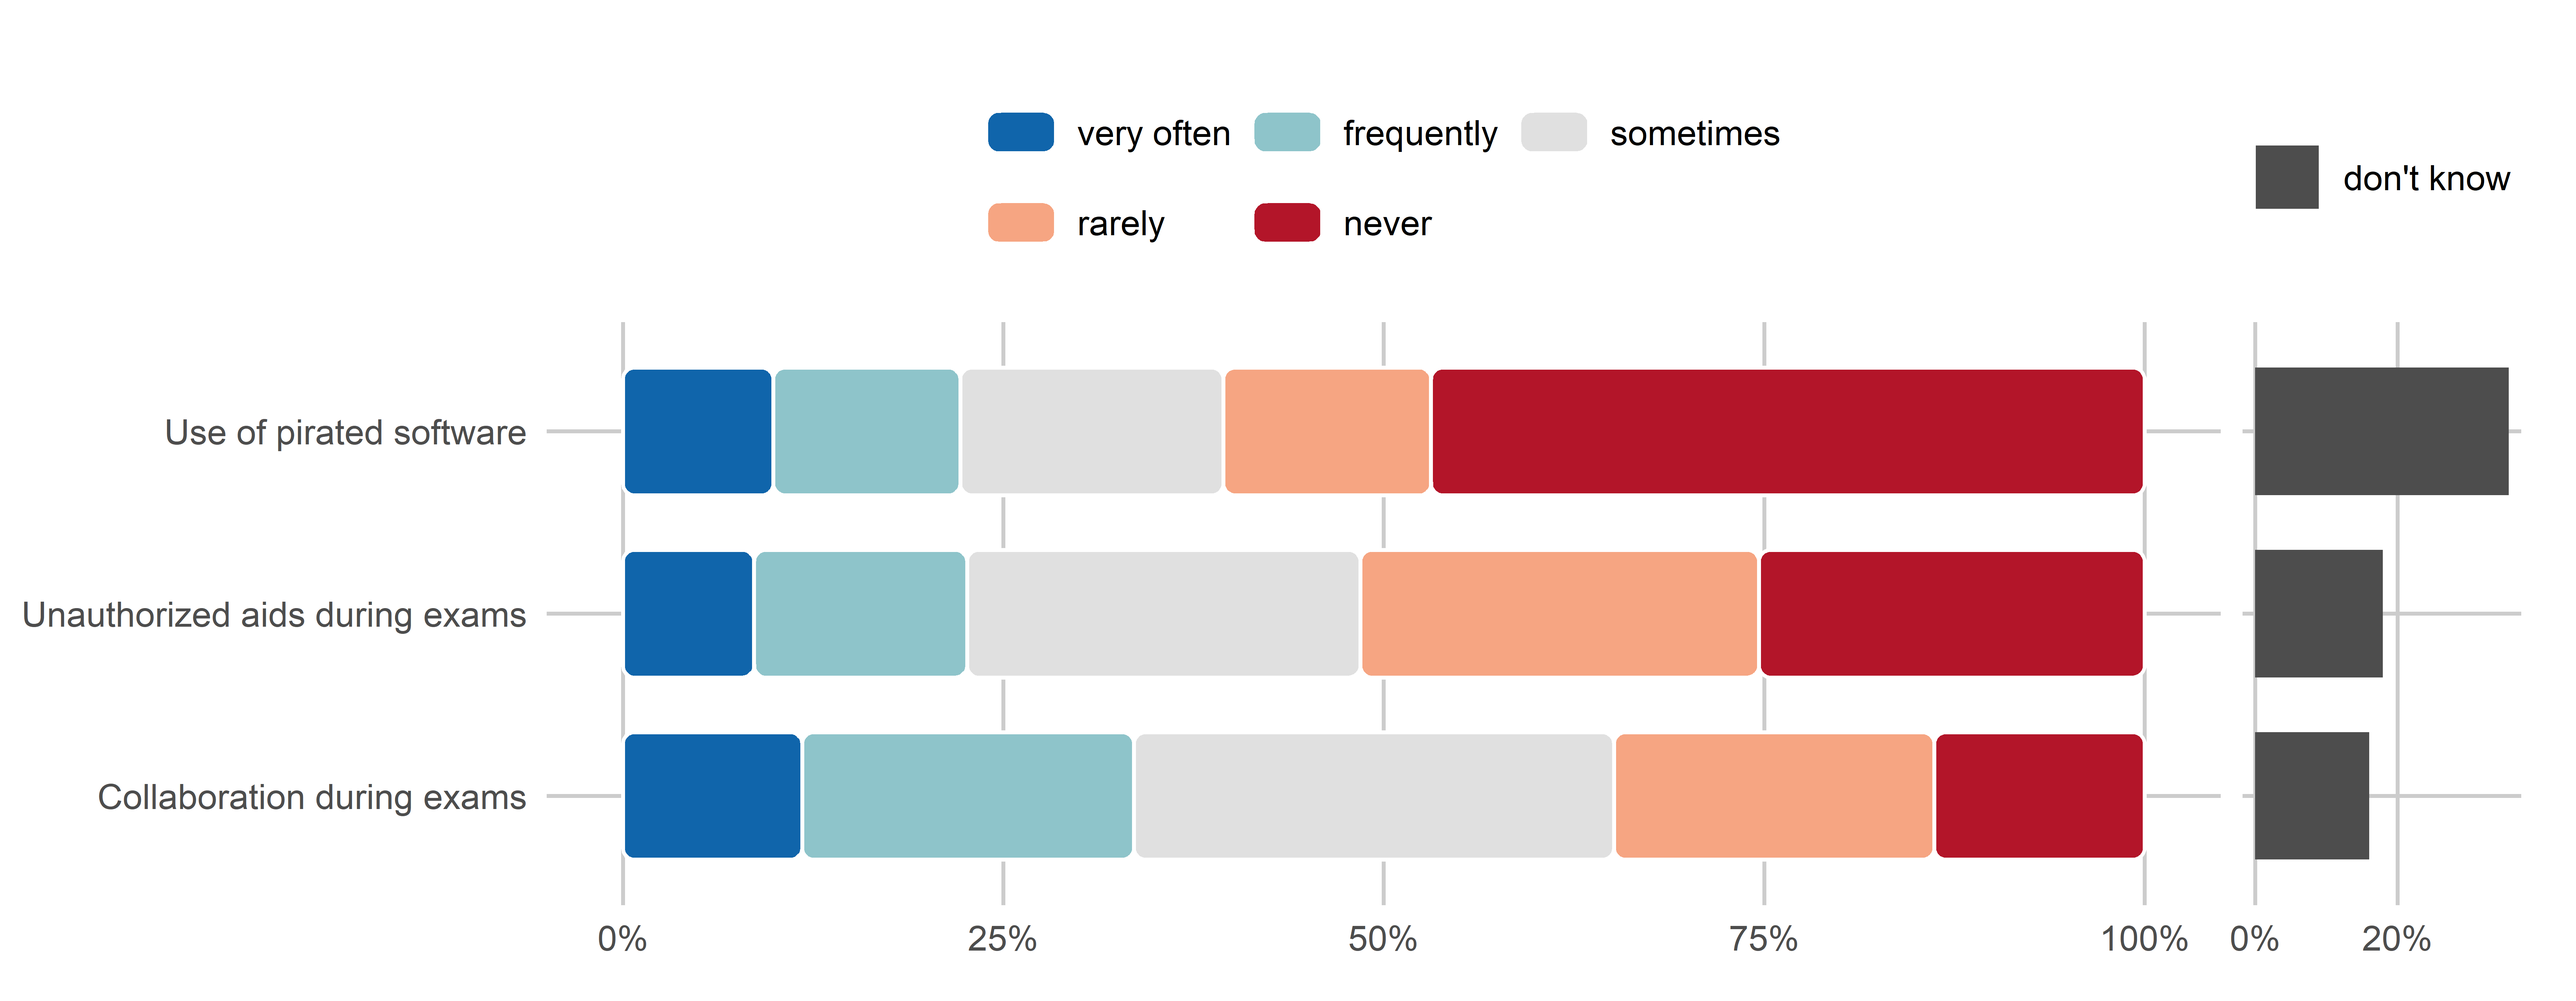
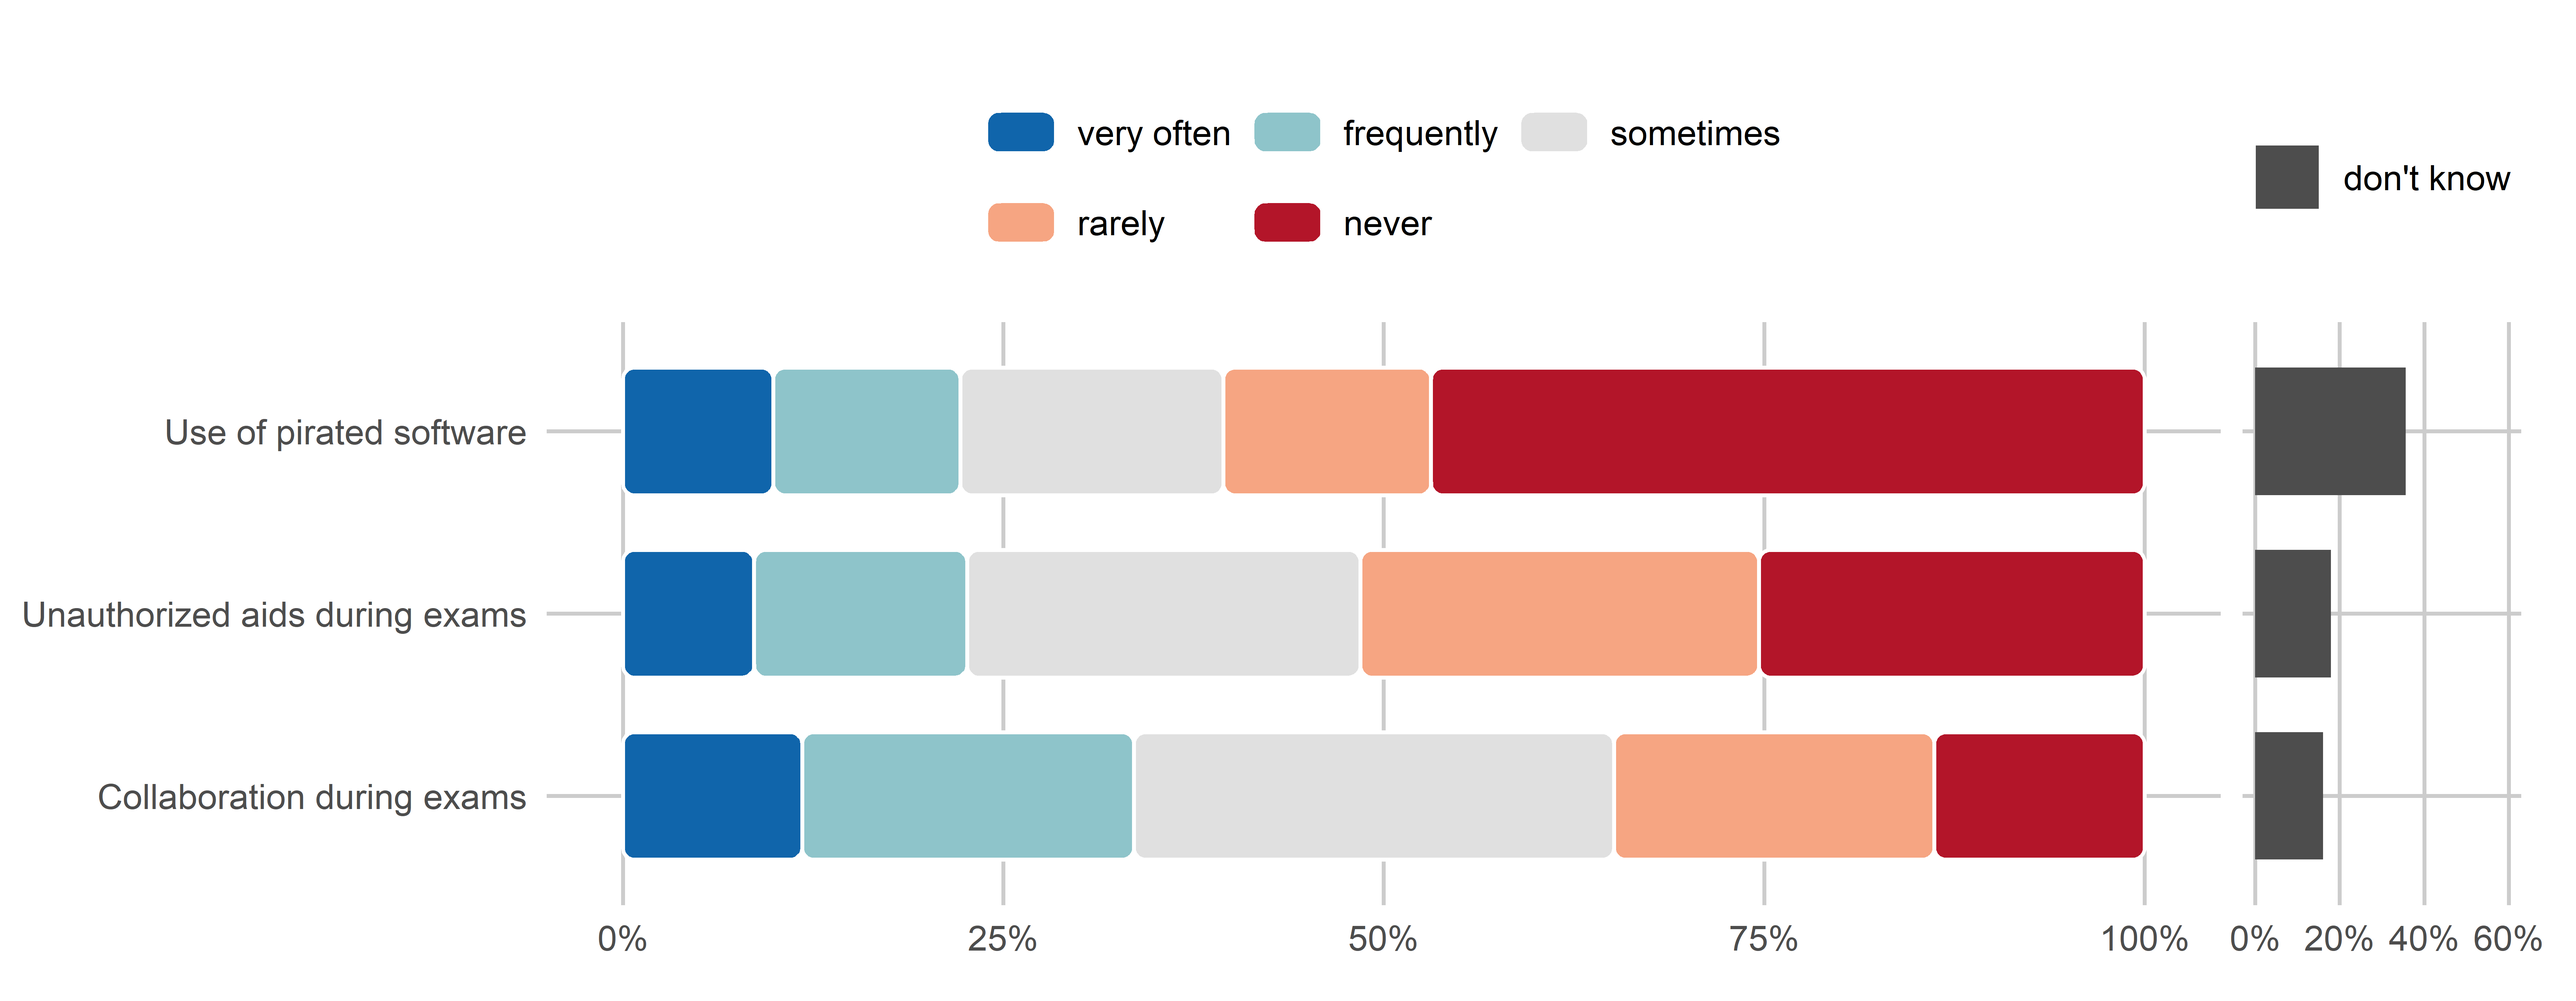
Adapt "don't know"/NA subplot axes

diff --git a/analysis_notebooks/survey_analysis.html b/analysis_notebooks/survey_analysis.html
@@ -489,7 +489,7 @@ pre > code.sourceCode > span > a:first-child::before { text-decoration: underlin
 <div class="cell">
 <div class="sourceCode cell-code" id="cb13"><pre class="sourceCode r code-with-copy"><code class="sourceCode r"><span id="cb13-1"><a href="#cb13-1" aria-hidden="true" tabindex="-1"></a>df<span class="sc">$</span>X63 <span class="ot">&lt;-</span> <span class="fu">factor</span>(df<span class="sc">$</span>X63,</span>
 <span id="cb13-2"><a href="#cb13-2" aria-hidden="true" tabindex="-1"></a>                 <span class="at">levels =</span> <span class="fu">c</span>(<span class="st">"National"</span>, <span class="st">"LPU"</span>, <span class="st">"SumDU"</span>, <span class="st">"DonNU"</span>, <span class="st">"LutskNTU"</span>))</span>
-<span id="cb13-3"><a href="#cb13-3" aria-hidden="true" tabindex="-1"></a><span class="fu">plot_agreement</span>(df, var_overview, <span class="st">"X15"</span>, <span class="at">group =</span> <span class="st">"X63"</span>)</span></code><button title="Copy to Clipboard" class="code-copy-button"><i class="bi"></i></button></pre></div>
+<span id="cb13-3"><a href="#cb13-3" aria-hidden="true" tabindex="-1"></a><span class="fu">plot_agreement</span>(df, var_overview, <span class="st">"X15"</span>, <span class="at">group =</span> <span class="st">"X63"</span>, <span class="at">xlim =</span> <span class="dv">3</span>)</span></code><button title="Copy to Clipboard" class="code-copy-button"><i class="bi"></i></button></pre></div>
 <div class="cell-output-display">
 <p><img src="survey_analysis_files/figure-html/hei_processes-1.png" class="img-fluid" width="3600"></p>
 </div>
@@ -760,7 +760,7 @@ pre > code.sourceCode > span > a:first-child::before { text-decoration: underlin
 </section>
 <section id="students-by-year" class="level2">
 <h2 class="anchored" data-anchor-id="students-by-year">Students by Year</h2>
-<p>In the plots above, students were all grouped into one category. Since it is of interest how students’ perceptions differ depending on the stage of their studies, they are compared more closely in the subsequent figures.</p>
+<p>In the plots above, students were all grouped into one category. Since it is of interest how students’ perceptions differ depending on the stage of their studies, they are compared more closely in the subsequent figures (these could maybe added to the appendix).</p>
 <div class="cell">
 <div class="sourceCode cell-code" id="cb29"><pre class="sourceCode r code-with-copy"><code class="sourceCode r"><span id="cb29-1"><a href="#cb29-1" aria-hidden="true" tabindex="-1"></a>students <span class="ot">&lt;-</span> df <span class="sc">%&gt;%</span> </span>
 <span id="cb29-2"><a href="#cb29-2" aria-hidden="true" tabindex="-1"></a>  <span class="fu">filter</span>(<span class="fu">str_detect</span>(X8, <span class="st">"student.*year"</span>) <span class="sc">|</span> X8 <span class="sc">==</span> <span class="st">"master student"</span>)</span></code><button title="Copy to Clipboard" class="code-copy-button"><i class="bi"></i></button></pre></div>
